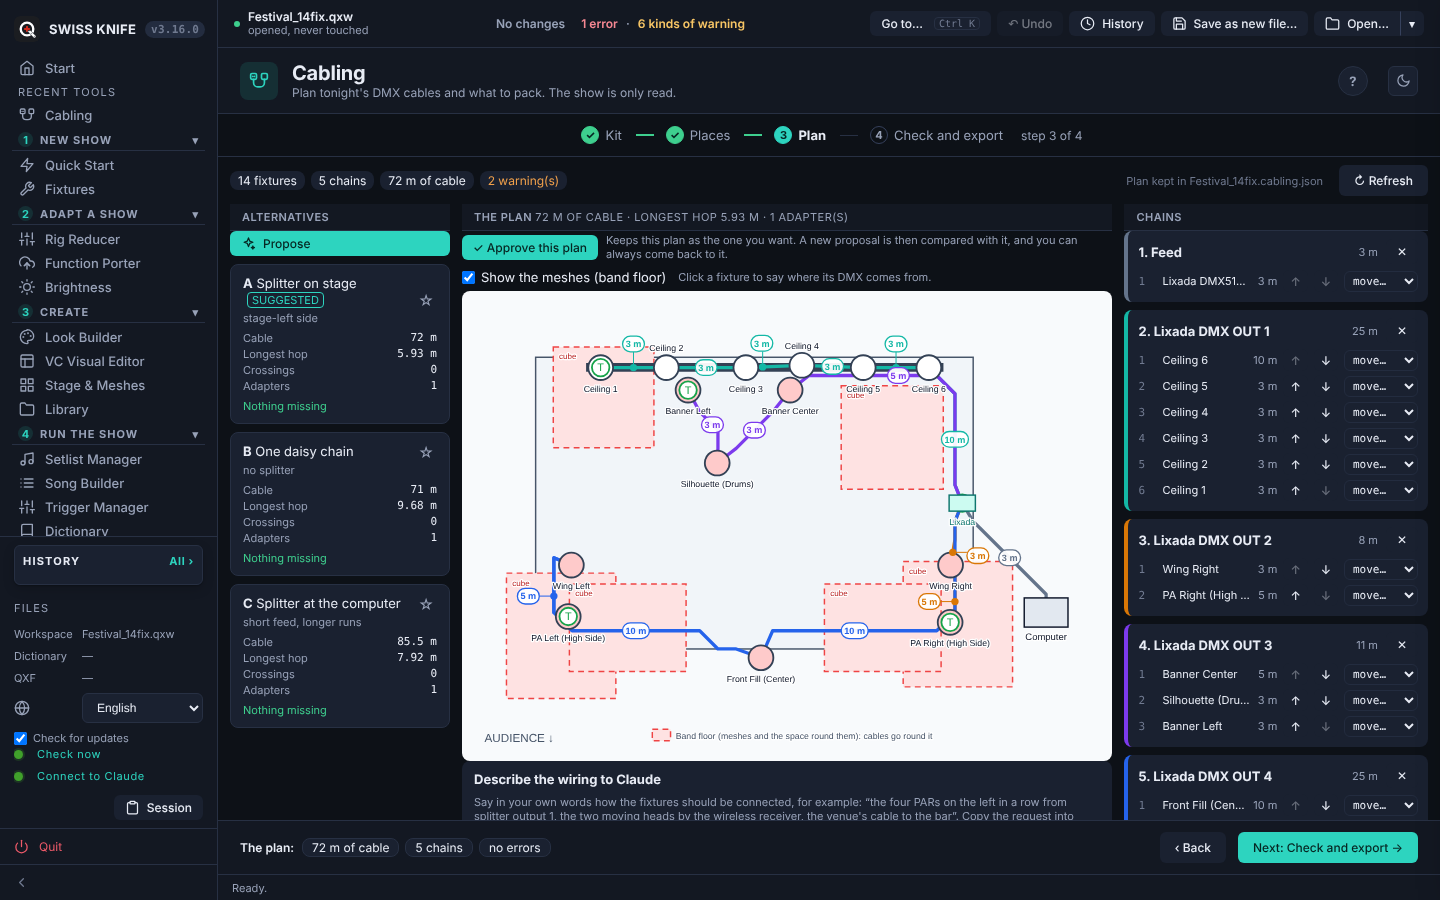
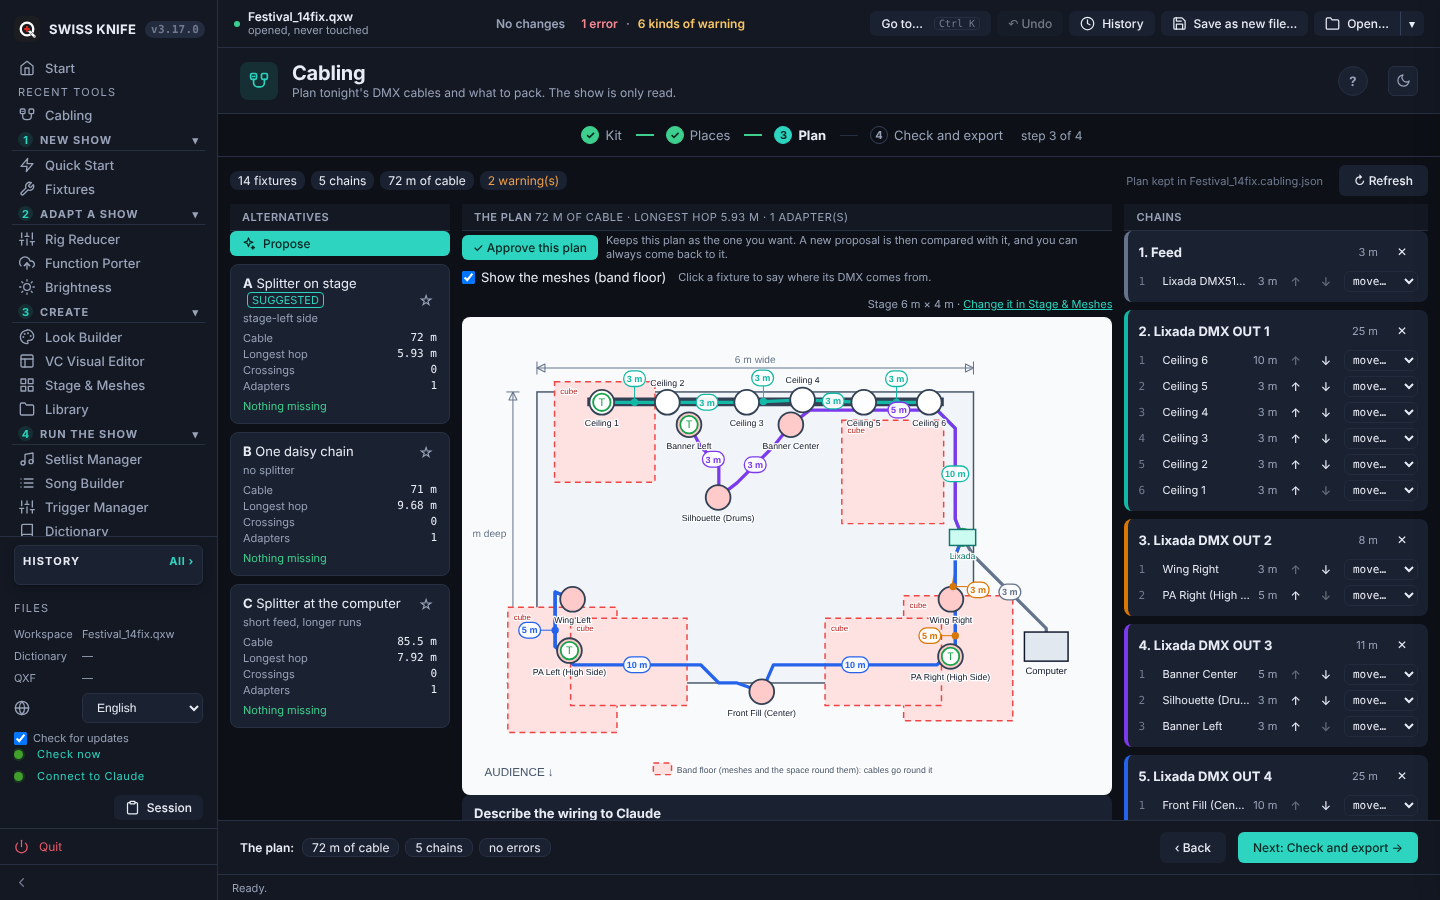
chore: release 3.17.0 (Beams as in QLC+)
Version 3.17.0 in workspace, README, spec and installer; CHANGELOG
section and release notes; Stage & Meshes and Cabling screenshots
retaken; WORKPLAN.

Claude-Session: https://claude.ai/code/session_01C97HwmdtVPyMas3zTDoMrE

Changed region(s): [[0.3125, 0.3111, 0.7812, 0.9333]]

diff --git a/core/workspace.py b/core/workspace.py
@@ -30,7 +30,7 @@ QLC_NS_URI = 'http://www.qlcplus.org/Workspace'
 NS = {'q': QLC_NS_URI}
 ET.register_namespace('', QLC_NS_URI)
 
-VERSION = "3.16.0"  # single source of truth — must match CHANGELOG
+VERSION = "3.17.0"  # single source of truth — must match CHANGELOG
 
 # ── Safety limits (same as the tkinter version) ───────────────────────────────
 _MAX_XML_BYTES = 50 * 1024 * 1024   # 50 MB

diff --git a/WORKPLAN.md b/WORKPLAN.md
@@ -37,7 +37,7 @@ This is the living plan for Swiss Knife: where the project stands, what comes ne
 
 ## 2. Next releases
 
-**Next: 3.17.0, beams as in QLC+ and the stage size on the cabling plan** (giopas, 7 November 2026; branch `feat/v3.17.0`). Asked with screenshots of QLC+'s 3D and 2D views of a real show: Stage & Meshes drew beams the wrong way. Cause: pan mirrored and roll applied first. Done: `stage3d.beam_direction` with QLC+'s own rotation (`palettes._rotation`, qZ·qY·qX with negated angles), sent as `dir` with each fixture; `_stBeamDir` in `stage3d.js` matches it (checked against the server on seven real rotations); dimension lines on the cabling plot and the stage size with a link to Stage & Meshes over it; 7 languages; `tests/test_stage_beams_3170.py`; wiki *Stage and Meshes*, *Cabling*. Still to do before the release: version bump, release notes, screenshots 09 and 22.
+**Release in progress: 3.17.0, Beams as in QLC+** (giopas, 7 November 2026; branch `feat/v3.17.0`, waiting for the push and the tag). Asked with screenshots of QLC+'s 3D and 2D views of a real show: Stage & Meshes drew beams the wrong way. Cause: pan mirrored and roll applied first. Done: `stage3d.beam_direction` with QLC+'s own rotation (`palettes._rotation`, qZ·qY·qX with negated angles), sent as `dir` with each fixture; `_stBeamDir` in `stage3d.js` matches it (checked against the server on seven real rotations); dimension lines on the cabling plot and the stage size with a link to Stage & Meshes over it; 7 languages; `tests/test_stage_beams_3170.py`; wiki *Stage and Meshes*, *Cabling*. Released with the version bump, release notes and screenshots 09 and 22 retaken.
 
 **Released before: 3.16.0, Your cabling decisions** (giopas, 7 November 2026; tag `v3.16.0`). Asked after 3.15.0: keep the radio choices when proposing again, and approve a plan as the one wanted. Done: `plan.radio_groups`, `approve`, `back_to_approved`, `approval` (in `evaluate`), `approved` kept in the plan file; `auto.alternatives` keeps fixtures by radio in every alternative (`_with_radio`, `_free_output`) and adds `vs_approved`; the Plan step's approval bar and the comparison under each alternative; a note to propose again after a change by hand; 7 languages; `tests/test_cabling_3160.py`; wiki *Cabling*; the `cabling` tool description. Released with the version bump, release notes and screenshot 22 checked.
 

diff --git a/docs/release-notes/RELEASE_NOTES_v3.17.0.md b/docs/release-notes/RELEASE_NOTES_v3.17.0.md
@@ -1,0 +1,12 @@
+### Fixed — beams that point the right way (3.17.0)
+
+- **Stage & Meshes drew many beams in the wrong direction.** Pan was turned the wrong way and roll was applied too early, so a PAR on a PA stack turned toward the middle was drawn pointing off the stage, and ceiling spots panned to one side were drawn going to the other. The beams now turn exactly as in QLC+'s 3D view (the same rotation QLC+ uses), on the plan and in the front view. Positions were right and are unchanged.
+
+### Added — the stage size on the cabling plan (3.17.0)
+
+- **The cabling plot shows the stage's width and depth** as dimension lines, *(tonight)* when the plan uses a stage size of its own.
+- **Over the plot**, the stage size and a link to Stage & Meshes to change it.
+
+---
+
+Downloads for macOS, Windows and Linux, the Claude Desktop file (.mcpb) and the checksums are below. The whole history is in the [CHANGELOG](https://github.com/giopas/qlc-plus-swiss-knife-tool-script/blob/main/CHANGELOG.md).

diff --git a/CHANGELOG.md b/CHANGELOG.md
@@ -7,6 +7,10 @@ This project follows [Keep a Changelog](https://keepachangelog.com/en/1.0.0/) co
 
 ## [Unreleased]
 
+---
+
+## [3.17.0] — 2026-11-07 — Beams as in QLC+
+
 ### Fixed — beams that point the right way (3.17.0)
 
 - **Stage & Meshes drew many beams in the wrong direction.** Pan was turned the wrong way and roll was applied too early, so a PAR on a PA stack turned toward the middle was drawn pointing off the stage, and ceiling spots panned to one side were drawn going to the other. The beams now turn exactly as in QLC+'s 3D view (the same rotation QLC+ uses), on the plan and in the front view. Positions were right and are unchanged.

diff --git a/README.md b/README.md
@@ -1,4 +1,4 @@
-# QLC+ Swiss Knife v3.16.0
+# QLC+ Swiss Knife v3.17.0
 
 <p align="center"><img src="static/logo/icon-512.png" alt="QLC+ Swiss Knife logo" width="140"></p>
 
